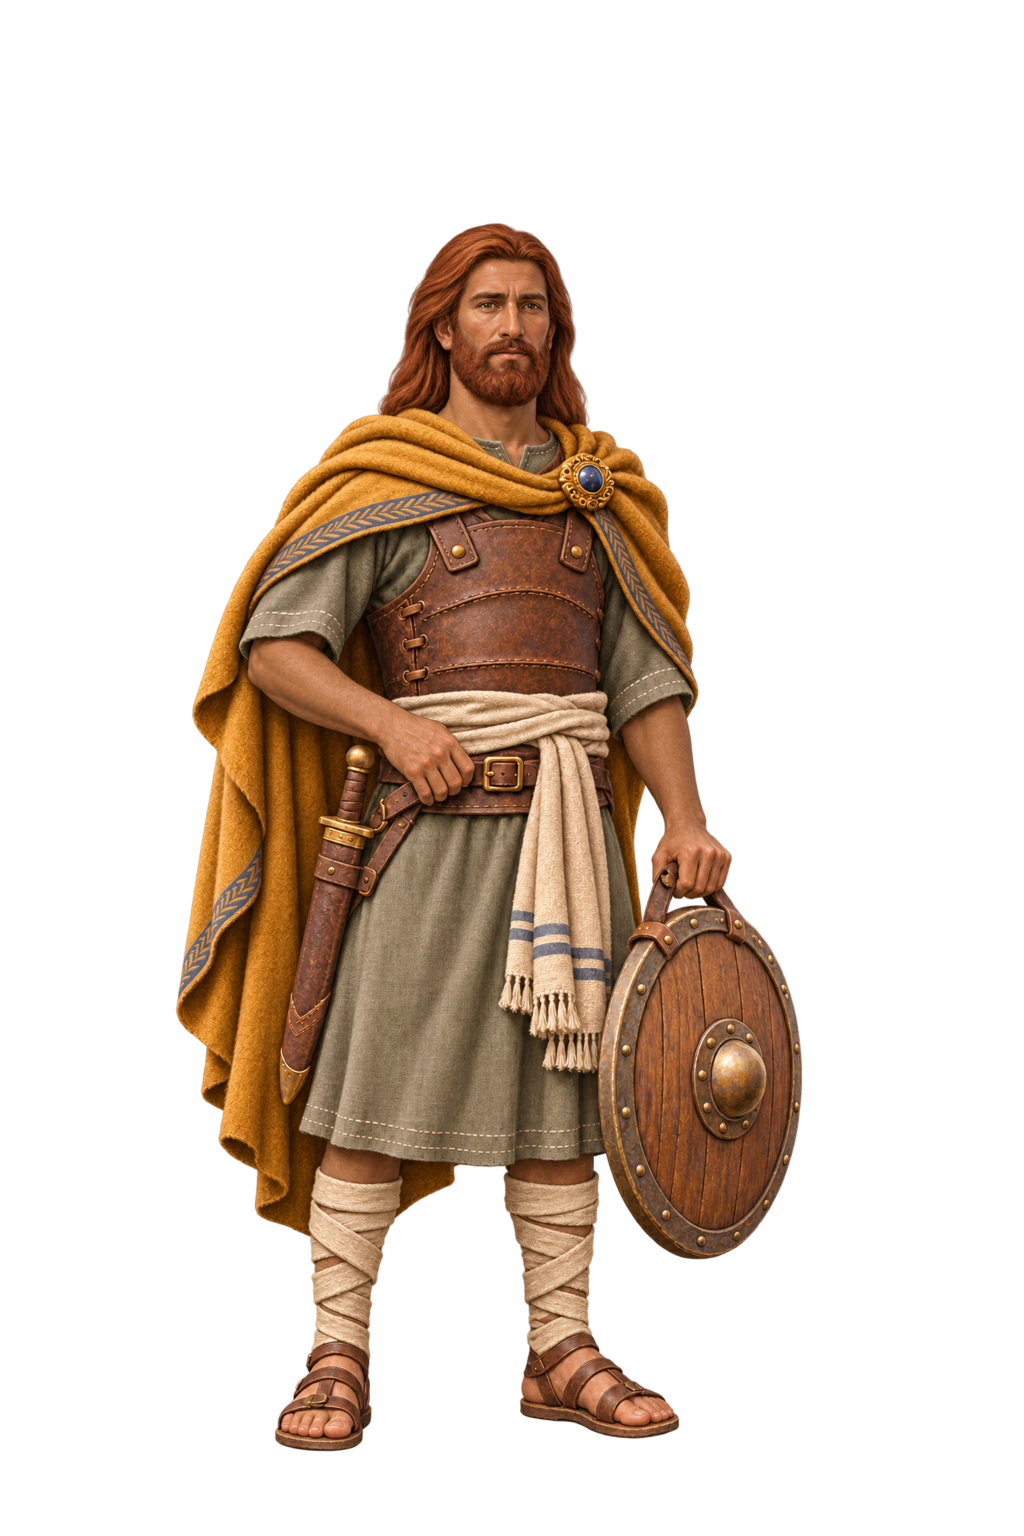
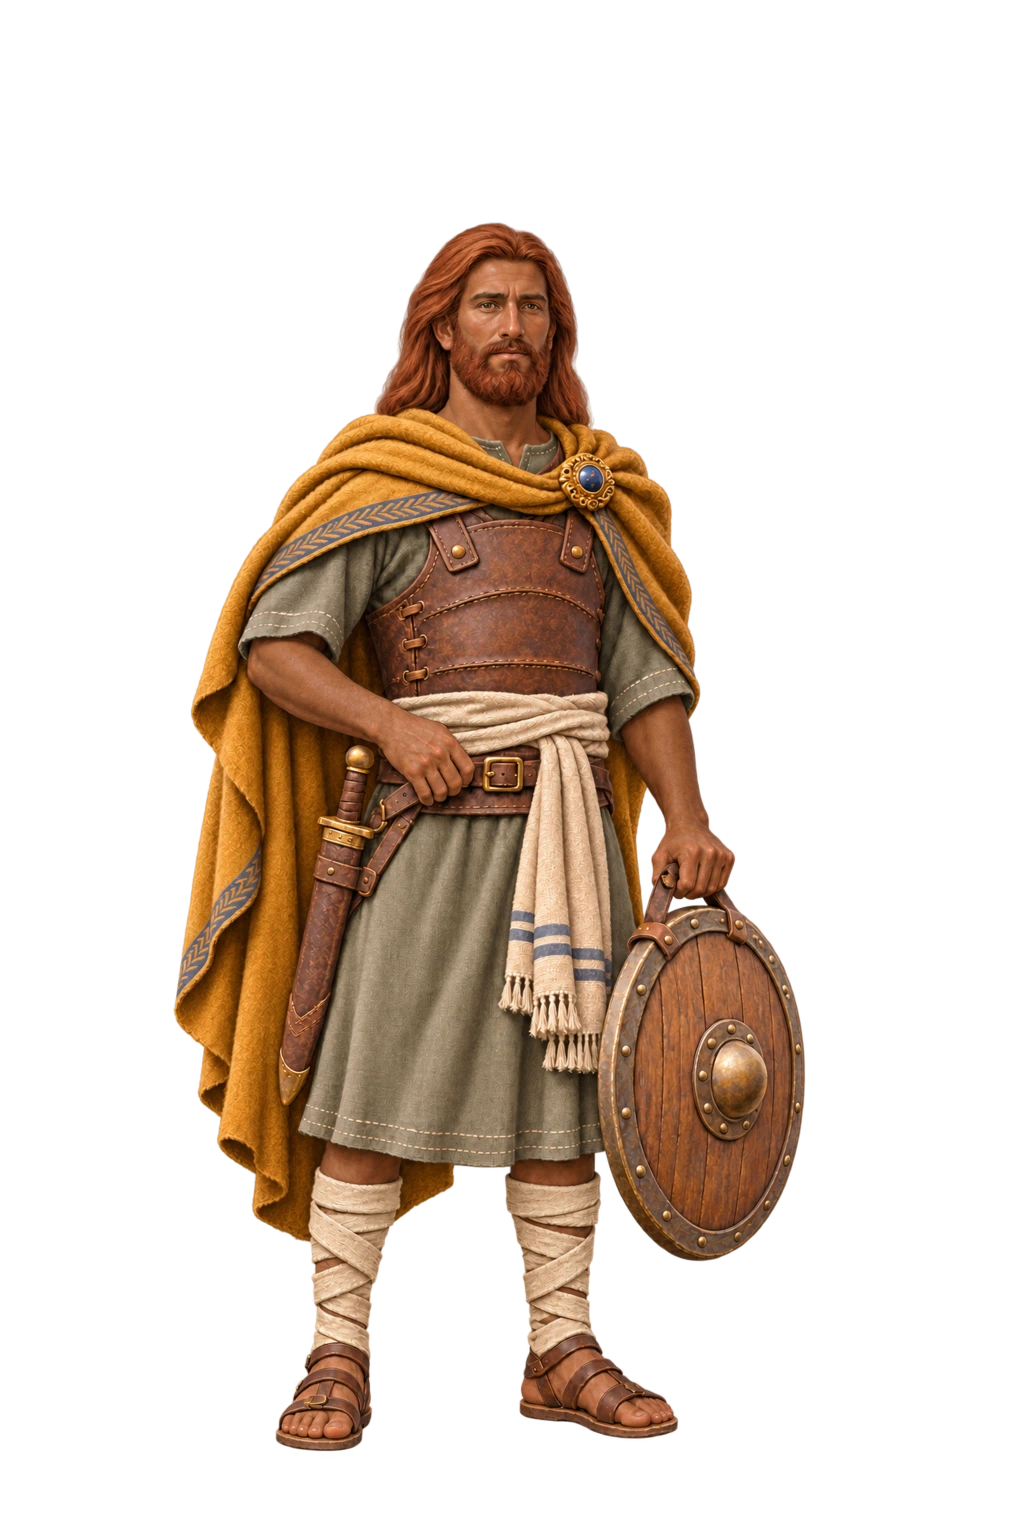
Aplica S06_v2: tom de pele do Baraque (estilo 2)
Claude-Session: https://claude.ai/code/session_01ShwRuBXYkz4meuq65H5Vn5

diff --git a/docs/skins/entregas/S06/PROMPTS.md b/docs/skins/entregas/S06/PROMPTS.md
@@ -349,3 +349,19 @@ CHECK entire body1024x1536, true transparent alpha, COMPACT OPAQUE hair contours
 
 Image2 is a TECHNICAL SKIN COLOR SWATCH REFERENCE ONLY: its six swatches run left to right skin1,skin2,skin3,skin4,skin5,skin6. Repaint exposed human skin in the neutral-light family of this exact requested swatch, preserving natural dimensional shadows and highlights. A skin1/2 must actually read LIGHT, a skin3/4 MEDIUM, a skin5/6 DARK; never let orange lighting collapse these tones. Do NOT draw any board or swatches. Keep the specified figure and true transparent canvas.
 ```
+
+# Revisão de tom · S06_v2
+
+Uma edição integrada para uma pintura. Image1 é alvo; Image2 é referência de tom4; Images3/4 são os estilos1/3 preservados; Image5 é a paleta técnica.
+
+## raro_baraque · estilo2 · skin-4 · pintura final corrigida
+
+```text
+Use case: identity-preserve / precise-object-edit. Image1 is the TARGET exact full-body BARAK skin (raro_baraque) STYLE2 with LONG STRAIGHT COPPER hair. This target was rejected because its skin is nearly as LIGHT as style1. Make a SUBSTANTIAL SKIN-PIGMENT correction ONLY, not a subtle color-grade. Repaint ALL exposed skin to catalog MEDIUM BROWN TONE4, base#AC764B, about20-25percent DARKER in the skin midtones than this current light target. Image2 is the APPROVED MEDIUM TONE4 COLOR REFERENCE (Laban style1 v2): borrow ONLY its complexion family, not its face, age, afro, moustache, clothes or staff. Image3 is BARAK STYLE1 LIGHT TONE2, which stays unchanged. Image4 is BARAK STYLE3 DEEP TONE5, which stays unchanged. The corrected style2 MUST read as a clear MIDDLE BROWN step between Image3 light and Image4 deep, like the neutral medium family in Image2. Image5 is the technical palette, swatches left-to-right skin1..6; FOURTH swatch is the target. No palette drawn.
+
+Repaint forehead, eyelids, nose, cheeks, ears, neck, BOTH forearms, BOTH hands/fingers, exposed knees, lower legs and feet consistently. Natural painted highlights and shadows, but NOT the current pale peach/caramel skin. No orange light wash, gray skin or deep espresso substitution.
+
+STRICTLY PRESERVE this target own LONG LEAN RECTANGULAR face, narrow forehead, long straight nose, narrow close-set eyes, low horizontal brows, full rounded beard and expression. SAME COPPER LONG STRAIGHT scalp hair, same COPPER beard/moustache shape and color, same eyes and apparent age. No new face or hairstyle. Preserve exactly the gray-olive tunic, plain brown leather torso protection, mustard mantle, slate-blue woven edging, cream sash, sandals/leg wraps, sheathed sword, round wooden SHIELD, two connected arms/hands and coherent grip, pose, folds, materials and framing. Do not add flowers, brocade pattern, new ornament, weapon or cloth detail.
+
+Same premium PAINTED2.5D brushwork and neutral upper-left light, not CGI/faceted/plastic. Single full-body RGBA1024x1536, soles and all props intact inside canvas. TRUE TRANSPARENT exterior alpha0, compact clean hair edges, no disconnected wisps, haze, bloom, shadow rectangle, text, divine figure or extra person. Only SKIN pigmentation changes, strongly and visibly.
+```

diff --git a/docs/skins/entregas/S06/LEIA-ME.md b/docs/skins/entregas/S06/LEIA-ME.md
@@ -1,4 +1,4 @@
-# Jornada Bíblica · S06
+# Jornada Bíblica · S06_v2
 
 6 skins completas × 3 estilos = **18 pinturas** no 2.5D pintado aprovado. Fonte: branch claude/kind-bell-fuk4e4, commit 6c28220. Briefing: LOTES.md; contrato: TEMPORADA-1-EXODO.md §2.
 
@@ -38,3 +38,11 @@ Cada personagem tem somente a apresentação do próprio sexo, na raiz do seu ID
 Conferir ZIP e .zip.sha256 de cada lote, somas, arte, diferenças de pele, rostos, mãos e objetos. Aplicar pelo fluxo oficial scripts/skins-add-lot.mjs S06 e scripts/gen-skin-art.mjs. Rodar unitários, SQL, skins-audit, marco1/journey/lobby/fixes e Supabase local oficial limpo. Atualizar plano/STATUS/LOTES/PARA-O-CODEX e publicar no mesmo branch com commit e resultado completo.
 
 O Codex alterou somente arte e arquivos de entrega locais, sem migração ou banco. A integração oficial fica com o Claude. O usuário autorizou envio direto, aguardar revisão, corrigir apontamentos e avançar automaticamente após o fechamento do ciclo. Até dois lotes nesta entrega: S05/S06.
+
+## Correção de tom · S06_v2
+
+Revisão do §26 de PARA-O-CODEX, base integrada b56ea02. Uma única pintura corrigida: raro_baraque estilo2, tom4 médio(#AC764B), entre o estilo1 claro(tom2) e o estilo3 escuro(tom5). Referência de cor: Labão estilo1 v2 já aprovado. Rosto próprio, barba, cabelo longo liso ruivo, traje, mãos, escudo, IDs e âncoras preservados. Sem migração, banco ou alteração de catálogo.
+
+Mudaram somente2assets: corpo.webp e corpo@2x.webp do estilo2. Os outros46assets, incluindo as seis fichas e todos os ícones, ficaram byte a byte iguais ao S06_final. Os estilos1/3 de Baraque e as outras17pinturas não mudam. Capturas320/412 de Baraque e galerias atualizadas; Comparacao_Tons_S06_v2.png compara1claro/2antes/2depois/3escuro. VALIDACAO.json traz hashes antigos/novos dos2assets.
+
+Uma nova edição ImageGen para uma pintura selecionada; PROMPTS preserva os22registros do S06 e acrescenta esta revisão(23registros). Enviar só S06_v2 e seu .zip.sha256. S05 continua aprovado, sem reenvio. Aguardar revisão/integração e confirmação dos checks antes de S07/S08.

diff --git a/docs/skins/PARA-O-CODEX.md b/docs/skins/PARA-O-CODEX.md
@@ -538,3 +538,15 @@ Mantenha rosto, bigode, barba, cabelo, traje, cajado, IDs e âncoras. Mande o pa
 - Mande o pacote S06 completo com os SHA-256 atualizados, sem migração.
 
 **Pares de tons vizinhos aceitos como estão:** Eli (tom 4 e tom 5), Mical (tom 4 e tom 5), Ezequias (tom 2 e tom 3) e Joabe (tom 2 e tom 3). Estão visivelmente distintos, como pede o plano.
+
+### 26.1 S06_v2: tom do Baraque (estilo 2) corrigido e aprovado (20/11/2026)
+
+**Conferência**
+- O ZIP de 20.140.718 bytes confere com o `.zip.sha256` (`e3eede42…`) e as 69 somas conferem.
+- Mudaram só os 2 arquivos anunciados: o estilo-2 do Baraque, base e @2x. Os outros 46 são idênticos, incluindo fichas e ícones.
+
+**Aprovado:** o estilo-2 agora está num tom 4 médio, entre o estilo-1 claro e o estilo-3 (tom 5). Rosto, barba, cabelo ruivo, traje e escudo foram preservados.
+
+**Integração:** só os 2 arquivos alterados, sem migração nem mudança de catálogo, fichas ou regras.
+
+**S05/S06 encerrados. Próximo: S07 e S08.**
